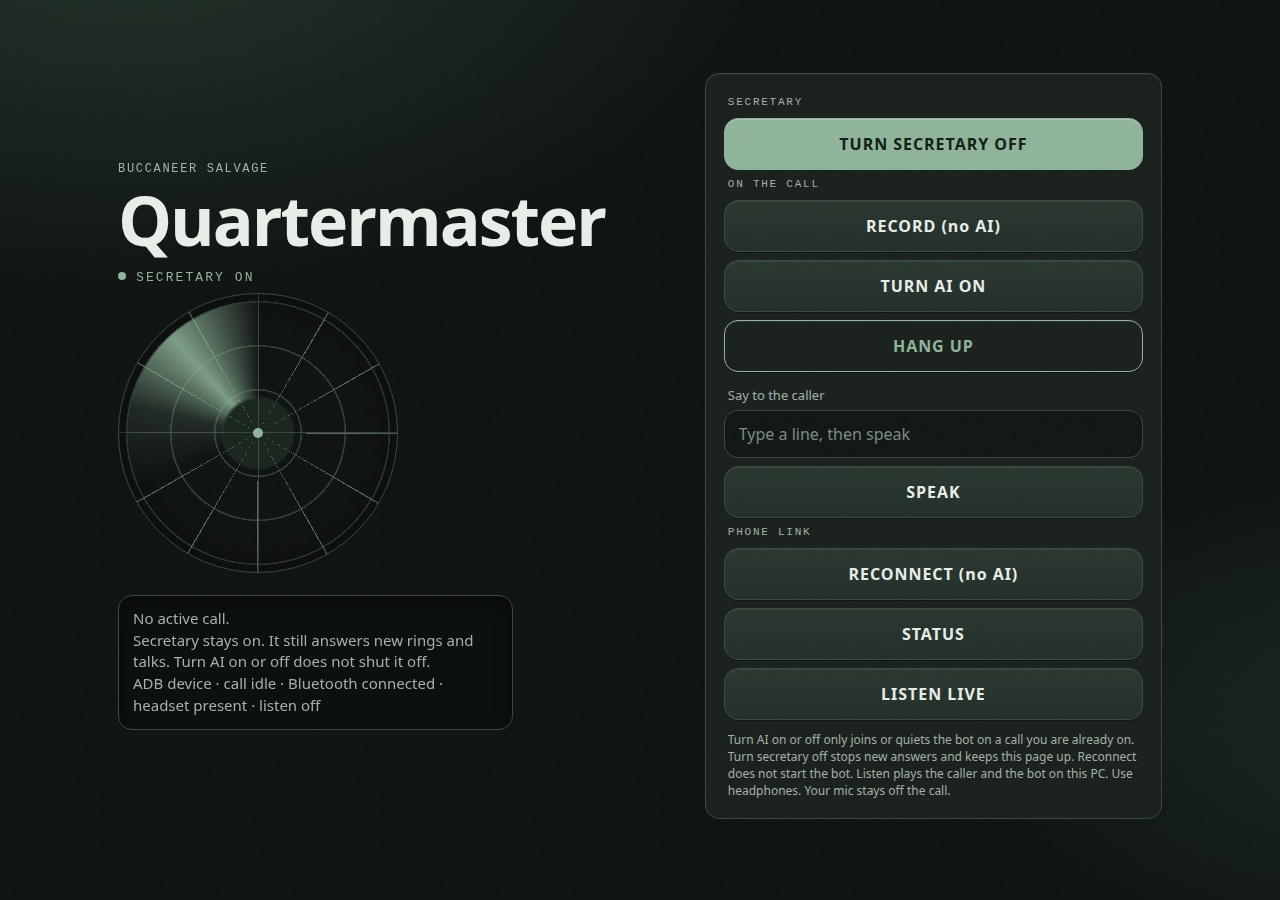
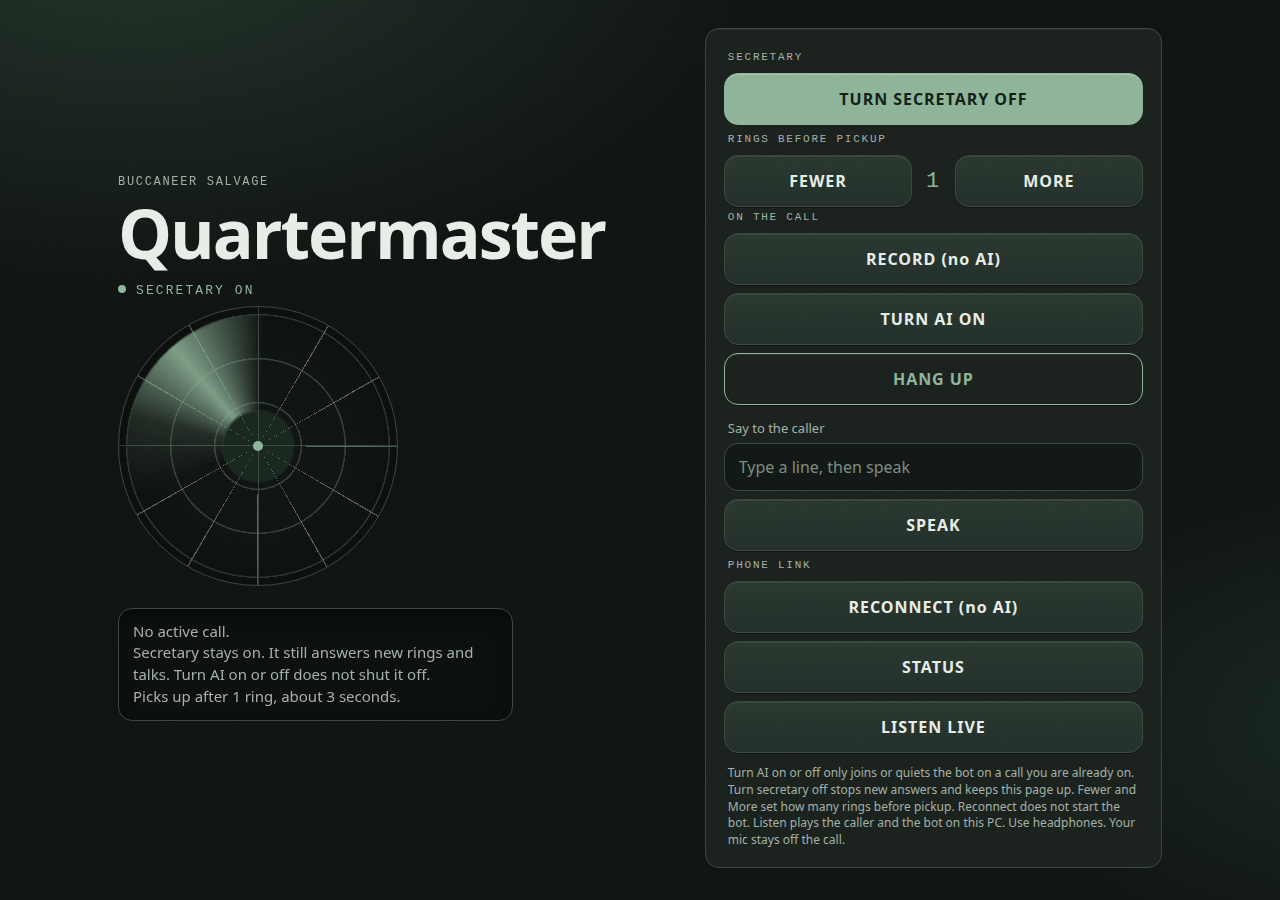
Let the bench panel set how many rings before pickup.
One ring stays the configured ring_delay_s, 3 seconds in the example. Fewer and More save a count from 1 to 8 and do not start the bot.

diff --git a/callscoot/panel.html b/callscoot/panel.html
@@ -176,6 +176,22 @@
     color: var(--accent);
     border-color: var(--accent);
   }
+  .ring-row {
+    display: grid;
+    grid-template-columns: 1fr auto 1fr;
+    gap: 8px;
+    align-items: center;
+  }
+  .ring-row button { margin: 0; }
+  .ring-count {
+    margin: 0;
+    min-width: 2ch;
+    text-align: center;
+    font-family: "Liberation Mono", ui-monospace, monospace;
+    font-size: 22px;
+    letter-spacing: .08em;
+    color: var(--accent);
+  }
   label {
     display: block;
     margin: 14px 4px 6px;
@@ -218,6 +234,12 @@
   <section class="desk">
     <h2>Secretary</h2>
     <button id="b-sec" class="on" onclick="act('secretary')">TURN SECRETARY OFF</button>
+    <h2>Rings before pickup</h2>
+    <div class="ring-row">
+      <button id="b-rings-down" onclick="act('rings_down')">FEWER</button>
+      <p id="rings" class="ring-count">1</p>
+      <button id="b-rings-up" onclick="act('rings_up')">MORE</button>
+    </div>
     <h2>On the call</h2>
     <button id="b-rec" onclick="act('rec')">RECORD (no AI)</button>
     <button id="b-ai" onclick="act('ai')">TURN AI ON</button>
@@ -229,7 +251,7 @@
     <button onclick="act('reconnect')">RECONNECT (no AI)</button>
     <button onclick="act('status')">STATUS</button>
     <button id="b-listen" onclick="act('listen')">LISTEN LIVE</button>
-    <p class="note">Turn AI on or off only joins or quiets the bot on a call you are already on. Turn secretary off stops new answers and keeps this page up. Reconnect does not start the bot. Listen plays the caller and the bot on this PC. Use headphones. Your mic stays off the call.</p>
+    <p class="note">Turn AI on or off only joins or quiets the bot on a call you are already on. Turn secretary off stops new answers and keeps this page up. Fewer and More set how many rings before pickup. Reconnect does not start the bot. Listen plays the caller and the bot on this PC. Use headphones. Your mic stays off the call.</p>
   </section>
 </div>
 <script>
@@ -251,6 +273,9 @@ async function st(){
     const bsec = document.getElementById('b-sec');
     bsec.textContent = up ? 'TURN SECRETARY OFF' : 'TURN SECRETARY ON';
     bsec.className = up ? 'on' : '';
+    const rings = j.rings || 1;
+    const per = j.ring_seconds || 3;
+    document.getElementById('rings').textContent = String(rings);
     const mode = document.getElementById('mode');
     mode.textContent = !up ? 'SECRETARY OFF' : (on ? (cop ? 'YOU HAVE THIS CALL' : 'BOT ON THIS CALL') : (join ? 'JOIN ARMED' : (pend ? 'RECORD ARMED' : 'SECRETARY ON')));
     let line;
@@ -268,9 +293,10 @@ async function st(){
       if (!on && join) line += '\nTurn AI on is armed. The bot will join a call you are already on and talk.';
       line += '\nSecretary stays on. It still answers new rings and talks. Turn AI on or off does not shut it off.';
     }
+    line += '\nPicks up after ' + rings + (rings === 1 ? ' ring' : ' rings') + ', about ' + Math.round(rings * per) + ' seconds.';
     if (j.listening) line += '\nListen is on. Caller and bot play here.';
     if (j.link) line += '\n' + j.link;
-    if (j.last_event && line.indexOf(j.last_event) < 0) line += '\n' + j.last_event;
+    if (j.last_event && line.toLowerCase().indexOf(String(j.last_event).toLowerCase()) < 0) line += '\n' + j.last_event;
     document.getElementById('st').textContent = line;
   } catch (e) {}
 }

diff --git a/callscoot/controls.py b/callscoot/controls.py
@@ -23,12 +23,36 @@ HANGUP = "hangup"
 SAY_TO_CALLER = "say_to_caller"  # payload = text, spoken into the call verbatim
 
 
+RINGS_MIN = 1
+RINGS_MAX = 8
+
+
+def _logs_dir(cfg):
+    return os.path.expanduser(dig(cfg or {}, "logs.dir", "") or "")
+
+
 def secretary_flag_path(cfg):
     """Off-switch file under logs. Absent means the secretary is on."""
-    d = os.path.expanduser(dig(cfg or {}, "logs.dir", "") or "")
+    d = _logs_dir(cfg)
     if not d:
         return None
     return os.path.join(d, "secretary.off")
+
+
+def rings_path(cfg):
+    """Saved ring count. Absent means call.rings, or 1."""
+    d = _logs_dir(cfg)
+    if not d:
+        return None
+    return os.path.join(d, "rings")
+
+
+def clamp_rings(n):
+    try:
+        n = int(n)
+    except (TypeError, ValueError):
+        n = RINGS_MIN
+    return max(RINGS_MIN, min(RINGS_MAX, n))
 
 
 class CallControls:
@@ -43,6 +67,8 @@ class CallControls:
         self.pending_record = False    # record the next offhook call, do not start the bot
         self.pending_join = False      # AI join requested while no session runs
         self.secretary = True          # watcher still answers new rings and the bot talks
+        self.rings = RINGS_MIN          # how many ring_delay_s waits before answer
+        self.ring_seconds = 3.0
         self.call_number = "unknown"
         self.session_started = 0.0
         self.last_event = ""
@@ -130,6 +156,35 @@ class CallControls:
         self.note_event(msg)
         return msg
 
+    def load_rings(self, path, default=RINGS_MIN):
+        n = clamp_rings(default)
+        if path and os.path.exists(path):
+            try:
+                with open(path, encoding="utf-8") as fh:
+                    n = clamp_rings(fh.read().strip())
+            except OSError:
+                n = clamp_rings(default)
+        with self._lock:
+            self.rings = n
+
+    def set_rings(self, n, path=None):
+        """How many configured ring-lengths to wait. Does not arm the bot."""
+        n = clamp_rings(n)
+        with self._lock:
+            self.rings = n
+            per = self.ring_seconds
+        if path:
+            try:
+                os.makedirs(os.path.dirname(path), exist_ok=True)
+                with open(path, "w", encoding="utf-8") as fh:
+                    fh.write(f"{n}\n")
+            except OSError:
+                pass
+        word = "ring" if n == 1 else "rings"
+        msg = f"picks up after {n} {word}, about {int(round(n * per))} seconds"
+        self.note_event(msg)
+        return msg
+
     # ── consumer (the session loop) ──────────────────────────────────────
     def drain(self):
         """All queued (command, payload) pairs right now."""
@@ -155,6 +210,8 @@ class CallControls:
                 "pending_record": self.pending_record,
                 "pending_join": self.pending_join,
                 "secretary": self.secretary,
+                "rings": self.rings,
+                "ring_seconds": self.ring_seconds,
                 "number": self.call_number,
                 "started": self.session_started,
                 "last_event": self.last_event,

diff --git a/callscoot/watch.py b/callscoot/watch.py
@@ -9,7 +9,7 @@ import wave
 
 from . import agent, audio, errors, gui, notify, orders_index, phone, sms, stt, tts
 from .config import dig
-from .controls import CallControls, secretary_flag_path
+from .controls import CallControls, clamp_rings, rings_path, secretary_flag_path
 
 
 def _stamp():
@@ -41,10 +41,11 @@ def _warmup(cfg):
 def watch(cfg):
     errors.setup(cfg)
     answer_unknown = bool(dig(cfg, "phone.answer_unknown", True))
-    ring_delay = float(dig(cfg, "call.ring_delay_s", 3.0))
     refresh_s = float(dig(cfg, "orders.refresh_minutes", 15)) * 60
     controls = CallControls()
+    controls.ring_seconds = max(0.5, float(dig(cfg, "call.ring_delay_s", 3.0)))
     controls.load_secretary(secretary_flag_path(cfg))
+    controls.load_rings(rings_path(cfg), clamp_rings(dig(cfg, "call.rings", 1)))
     notify.start_control_listener(cfg, controls, log=lambda m: print(f"[{_stamp()}] {m}"))
     gui.start_server(cfg, controls, log=lambda m: print(f"[{_stamp()}] {m}"))
     try:
@@ -135,7 +136,25 @@ def watch(cfg):
                 time.sleep(1)
                 continue
             audio.set_hfp_profile(cfg)  # pre-arm the audio path while it rings
-            time.sleep(ring_delay)
+            per = max(0.5, float(controls.ring_seconds))
+            deadline = time.monotonic() + (controls.rings * per)
+            stopped = False
+            while time.monotonic() < deadline:
+                if not controls.secretary:
+                    print(f"[{_stamp()}] secretary turned off while ringing. Not answering.")
+                    errors.info("secretary turned off while ringing. Not answering.", cfg)
+                    prev = s
+                    stopped = True
+                    break
+                time.sleep(0.4)
+                st2 = phone.call_state()
+                if st2["state"] != 1:
+                    print("[callscoot]   caller hung up before answer")
+                    prev = st2["state"]
+                    stopped = True
+                    break
+            if stopped:
+                continue
             st2 = phone.call_state()
             if st2["state"] != 1:
                 print("[callscoot]   caller hung up before answer")

diff --git a/tests/test_panel.py b/tests/test_panel.py
@@ -5,7 +5,7 @@ import unittest
 from unittest import mock
 
 from callscoot import audio, errors
-from callscoot.controls import CallControls, secretary_flag_path
+from callscoot.controls import CallControls, rings_path, secretary_flag_path
 from callscoot.gui import _PAGE, handle_act, link_status, read_form, reconnect_link
 
 
@@ -18,6 +18,9 @@ class PanelTests(unittest.TestCase):
         self.assertNotIn("FormData", _PAGE)
         self.assertIn("TURN SECRETARY OFF", _PAGE)
         self.assertIn("act('secretary')", _PAGE)
+        self.assertIn("act('rings_up')", _PAGE)
+        self.assertIn("act('rings_down')", _PAGE)
+        self.assertIn("FEWER", _PAGE)
         self.assertIn("does not shut it off", _PAGE)
 
     def test_browser_multipart_click_is_read(self):
@@ -138,6 +141,29 @@ class PanelTests(unittest.TestCase):
         self.assertTrue(c.snapshot()["secretary"])
         self.assertFalse(os.path.exists(path))
         self.assertEqual(c.drain(), [("rec_on", None)])
+
+    def test_ring_count_does_not_arm_the_bot_and_stays_in_range(self):
+        d = tempfile.mkdtemp()
+        c = CallControls()
+        c.ring_seconds = 3
+        cfg = {"logs": {"dir": d}}
+        path = rings_path(cfg)
+        up = handle_act(cfg, c, "rings_up")
+        self.assertIn("2 rings", up)
+        self.assertEqual(c.rings, 2)
+        self.assertTrue(os.path.exists(path))
+        self.assertFalse(c.pending_join)
+        self.assertFalse(c.pending_record)
+        for _ in range(20):
+            handle_act(cfg, c, "rings_up")
+        self.assertEqual(c.rings, 8)
+        for _ in range(20):
+            handle_act(cfg, c, "rings_down")
+        self.assertEqual(c.rings, 1)
+        self.assertIn("1 ring", handle_act(cfg, c, "rings_down"))
+        self.assertEqual(c.drain(), [])
+        with open(path, encoding="utf-8") as fh:
+            self.assertEqual(fh.read().strip(), "1")
 
     def test_secretary_off_quiets_the_bot_without_hangup(self):
         c = CallControls()

diff --git a/callscoot/gui.py b/callscoot/gui.py
@@ -2,7 +2,7 @@
 
 Served by the watch process on 127.0.0.1 only (gui.port, default 8795):
   GET  /          the button page (auto-refreshing state)
-  POST /act       one action: rec | ai | hangup | say | reconnect | status | listen | secretary
+  POST /act       one action: rec | ai | hangup | say | reconnect | status | listen | secretary | rings_up | rings_down
   GET  /state     JSON snapshot
 Stdlib http.server only; no LAN exposure, no auth — it never leaves localhost.
 """
@@ -15,7 +15,7 @@ from urllib.parse import parse_qs
 
 from . import audio, errors, phone
 from .config import dig
-from .controls import secretary_flag_path
+from .controls import rings_path, secretary_flag_path
 
 import os
 
@@ -106,6 +106,10 @@ def handle_act(cfg, controls, op, text=""):
             note = audio.live.set(cfg, not audio.live.on)
         elif op == "secretary":
             note = controls.toggle_secretary(secretary_flag_path(cfg))
+        elif op == "rings_up":
+            note = controls.set_rings(controls.rings + 1, rings_path(cfg))
+        elif op == "rings_down":
+            note = controls.set_rings(controls.rings - 1, rings_path(cfg))
     except Exception as e:
         errors.record(f"panel-{op or 'act'}", e, cfg)
         note = f"{op or 'act'} failed: {e}"

diff --git a/README.md b/README.md
@@ -65,6 +65,7 @@ those rules are in the prompt *and* the guardrails.
 | Button | What it does |
 |---|---|
 | TURN SECRETARY OFF | Stops answering new rings. The page stays open. A call you are already on stays up. If the bot is talking, it goes quiet. |
+| FEWER / MORE | How many rings before pickup. One ring is `call.ring_delay_s` (3 seconds in the example). The count is 1 to 8 and sticks across a restart in `logs/rings`. |
 | TURN AI ON / OFF | Joins or quiets the bot on a call that is already up. It does not shut the secretary off. |
 | RECORD (no AI) | Records a call you already picked up. The bot does not start talking. |
 | RECONNECT (no AI) | Brings Bluetooth and wireless debugging back. It does not start the bot. |
